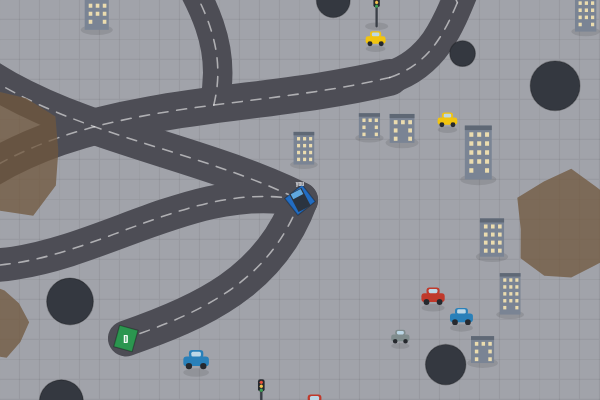
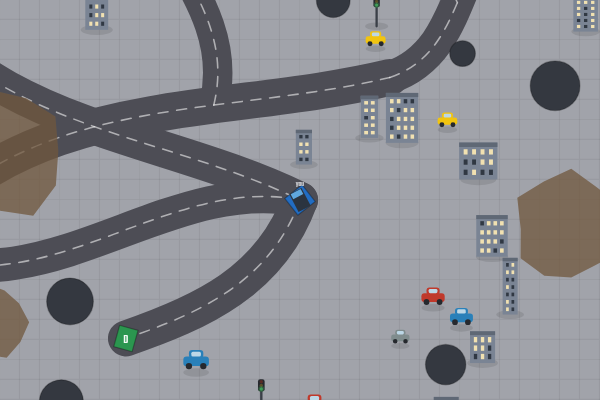
Refine candy canes and city sprites
- Candy cane: white stripes now cross the stick diagonally (short slanted
  segments along the centerline) instead of vertical dashes.
- Traffic light: lights repositioned so none spill off the panel; only one lamp
  is lit (with a soft glow), the other two are muted.
- Building: sized around a randomized window grid - 3-7 rows, 2-4 columns,
  randomized window size/gaps, lit or dark per window.

diff --git a/src/game/render.ts b/src/game/render.ts
@@ -682,16 +682,30 @@ function drawProp(ctx: CanvasRenderingContext2D, kind: string, variant: number, 
       break;
     }
     case "building": {
-      const height = 14 + (variant % 3) * 5;
-      const top = 9 - height;
+      // Size the building around a randomized window grid.
+      const cols = randInt(rng, 2, 4);
+      const rows = randInt(rng, 3, 7);
+      const winW = randRange(rng, 1.4, 2.4);
+      const winH = randRange(rng, 1.6, 2.8);
+      const gapX = randRange(rng, 1.4, 2.2);
+      const gapY = randRange(rng, 1.6, 2.4);
+      const sideMargin = 2;
+      const topMargin = 3; // clears the roof band
+      const bottomMargin = 2;
+      const bw = sideMargin * 2 + cols * winW + (cols - 1) * gapX;
+      const bh = topMargin + bottomMargin + rows * winH + (rows - 1) * gapY;
+      const left = -bw / 2;
+      const top = 9 - bh;
       ctx.fillStyle = "#7a8494";
-      ctx.fillRect(-6, top, 12, height);
+      ctx.fillRect(left, top, bw, bh);
       ctx.fillStyle = "#5f6875";
-      ctx.fillRect(-6, top, 12, 2);
-      ctx.fillStyle = "rgba(255, 236, 180, 0.85)";
-      for (let wy = top + 3; wy < 7; wy += 4) {
-        for (let wx = -4; wx <= 3; wx += 3.5) {
-          if ((wx + wy) % 2 < 1.2) ctx.fillRect(wx, wy, 1.8, 2);
+      ctx.fillRect(left, top, bw, 2);
+      for (let r = 0; r < rows; r++) {
+        for (let c = 0; c < cols; c++) {
+          const wx = left + sideMargin + c * (winW + gapX);
+          const wy = top + topMargin + r * (winH + gapY);
+          ctx.fillStyle = rng() < 0.68 ? "rgba(255, 236, 180, 0.9)" : "rgba(40, 48, 58, 0.9)";
+          ctx.fillRect(wx, wy, winW, winH);
         }
       }
       break;
@@ -706,11 +720,23 @@ function drawProp(ctx: CanvasRenderingContext2D, kind: string, variant: number, 
       ctx.fillStyle = "#26292e";
       roundedRect(ctx, -2.2, -12, 4.4, 8, 1.4);
       ctx.fill();
+      // Panel spans y -12..-4; place the three lights centered so none spill off.
       const lights = ["#e8503a", "#f2c14e", "#3f9e57"];
+      const muted = ["#5a2a25", "#5a4e28", "#26402e"];
+      const on = randInt(rng, 0, 2);
       for (let i = 0; i < 3; i++) {
-        ctx.fillStyle = lights[i]!;
+        const cy = -10.4 + i * 2.4;
+        if (i === on) {
+          ctx.globalAlpha = 0.35;
+          ctx.fillStyle = lights[i]!;
+          ctx.beginPath();
+          ctx.arc(0, cy, 2, 0, TAU);
+          ctx.fill();
+          ctx.globalAlpha = 1;
+        }
+        ctx.fillStyle = i === on ? lights[i]! : muted[i]!;
         ctx.beginPath();
-        ctx.arc(0, -10 + i * 2.6, 1.1, 0, TAU);
+        ctx.arc(0, cy, 1.1, 0, TAU);
         ctx.fill();
       }
       break;
@@ -1015,22 +1041,38 @@ function drawProp(ctx: CanvasRenderingContext2D, kind: string, variant: number, 
     }
     case "candycane": {
       ctx.lineCap = "round";
-      const cane = () => {
-        ctx.beginPath();
-        ctx.moveTo(2, 9);
-        ctx.lineTo(2, -4);
-        ctx.quadraticCurveTo(2, -9, -2, -8);
-        ctx.stroke();
-      };
+      ctx.lineJoin = "round";
+      // Centerline: straight stick, then the hooked top.
+      const pts: Array<[number, number]> = [];
+      for (let i = 0; i <= 8; i++) pts.push([2, 9 + (i / 8) * -13]); // (2,9) -> (2,-4)
+      for (let i = 1; i <= 6; i++) {
+        const t = i / 6;
+        const mt = 1 - t;
+        pts.push([mt * mt * 2 + 2 * mt * t * 2 + t * t * -2, mt * mt * -4 + 2 * mt * t * -9 + t * t * -8]);
+      }
+      // Red body.
       ctx.strokeStyle = "#e8503a";
       ctx.lineWidth = 3.4;
-      cane();
-      // Thin, widely-gapped white stripes so red stays dominant.
+      ctx.beginPath();
+      pts.forEach(([px, py], i) => (i === 0 ? ctx.moveTo(px, py) : ctx.lineTo(px, py)));
+      ctx.stroke();
+      // Diagonal white stripes: short segments crossing the stick at a slant
+      // (tangent rotated ~63 deg), spaced along the length.
       ctx.strokeStyle = "#f4f1ea";
       ctx.lineWidth = 1.5;
-      ctx.setLineDash([1.6, 3.2]);
-      cane();
-      ctx.setLineDash([]);
+      const half = 1.9;
+      for (let i = 1; i < pts.length - 1; i += 2) {
+        const prev = pts[i - 1]!;
+        const next = pts[i + 1]!;
+        const cur = pts[i]!;
+        const ang = Math.atan2(next[1] - prev[1], next[0] - prev[0]) + Math.PI * 0.35;
+        const dx = Math.cos(ang);
+        const dy = Math.sin(ang);
+        ctx.beginPath();
+        ctx.moveTo(cur[0] - dx * half, cur[1] - dy * half);
+        ctx.lineTo(cur[0] + dx * half, cur[1] + dy * half);
+        ctx.stroke();
+      }
       break;
     }
     case "gumdrop": {
